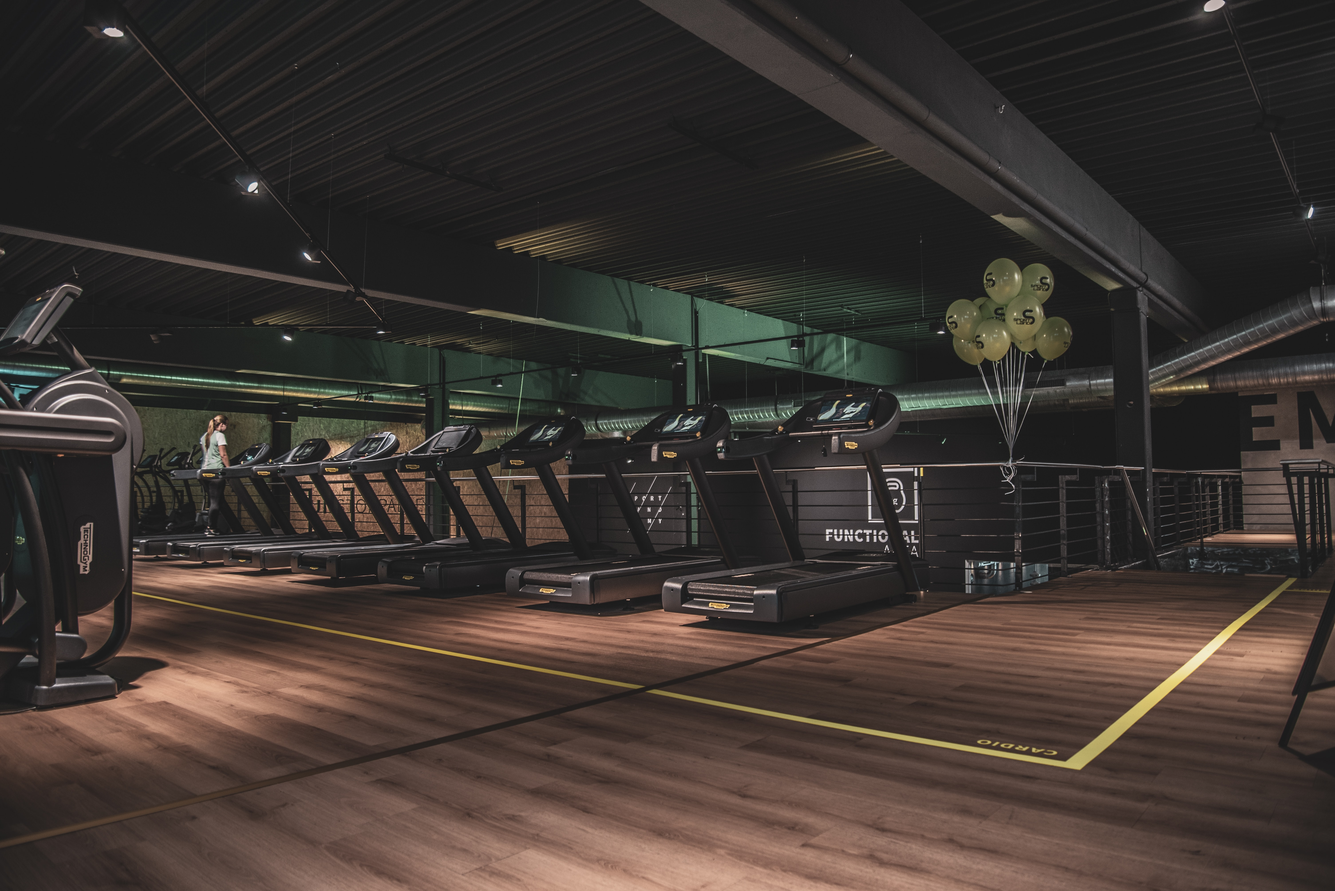
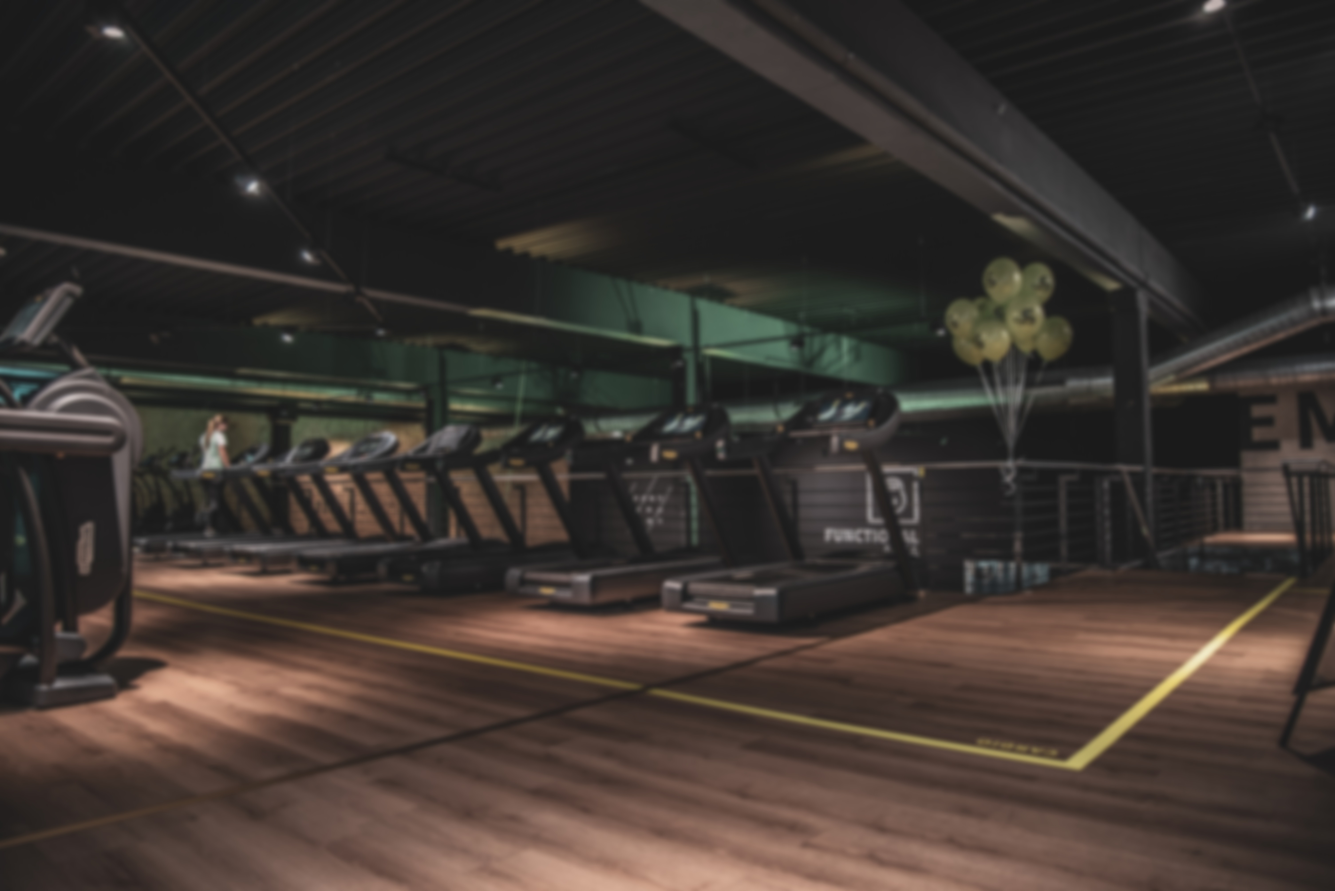
NavBar and LoginForm Updated

diff --git a/src/navbar/navbar.css b/src/navbar/navbar.css
@@ -1,9 +1,17 @@
-/* @import url('https://fonts.googleapis.com/css2?family=Ubuntu&display=swap');
+@import url('https://fonts.googleapis.com/css2?family=Ubuntu&display=swap');
 :root{
-  --dark-font:#091540;
-  --light-font:#F8F7F9;
-  --font-fam:'Ubuntu', sans-serif;;
-} */
+  --dark-font:#151515;
+  --light-font:#FFFFFF;
+  --font-fam:'Ubuntu', sans-serif;
+  --secondary-hover-color:#292929;
+  --purple:#9E55FC;
+  --green:#03DAC6;
+  --grey-card:#1E1E1E;
+  --dark-shadow:  0px 16px 24px 2px hsla(0,0%,0%,0.14), 
+  0px 6px 30px 5px hsla(0,0%,0%,0.12), 
+  0px 8px 10px -5px hsla(0,0%,0%,0.2);
+
+}
 .navbar{
     /* padding-left:100px ; */
     padding-top:30px;
@@ -66,7 +74,12 @@
 .fa-solid{
     color :var(--dark-font);
 }
-
+.navbar-responsive{
+  display: absolute;
+}
+.nav-link{
+  text-align: center;
+}
 
 
 /* Login navbar modal */
@@ -98,47 +111,58 @@
     padding: 2em;
     max-width: 100%;
     color: var(--dark-font);
-    background-color:white;
-    border-radius: 10px;
+    background-color:var(--grey-card);
+    border-radius: 5px;
     @media (max-width: 576px) {
       max-width: 90%;
       margin: 0 auto;
     }
+  }
+  .text-center{
+    color: var(--light-font);
+  }
+  .form-label{
+    color: var(--light-font);
   }
   .form-control {
     background-color: inherit;
     padding-left: 0;
     border:0;
     border-radius: 0;
-    color: var(--dark-font);
-    border-bottom: 2px solid var(--dark-font);
-  }
-  .form-control:focus{
+    color: var(--light-font);
+    border-bottom: 2px solid var(--light-font);
     text-decoration: none;
-    outline: none;
+
+  }
+  .form-control:focus,.form-control:active{
+    outline: none !important;
     border: 0;
-    border-bottom: 2px solid var(--dark-font);
-    box-shadow: inset 0 0px 0 #7e7e7e;
+    color: white;
+    background-color: transparent;
+    border-bottom: 2px solid var(--light-font);
+    /* box-shadow: inset 0 0px 0 #7e7e7e; */
   }
   .myform .btn {
-    width: 100%;
+    width: 50%;
     font-weight: 800;
-    background-color: #fff;
+    background-color: var(--dark-font);
     border-radius: 0;
     padding: 0.5em 0;
+    margin: 0px 27%;
+    position: relative;
+    color: var(--light-font);
   }
-  .myform .btn:hover {
-    background-color: inherit;
-  }
+  /* .myform .btn:hover {
+    background-color: lightgreen;
+  } */
   .login_para {
     text-align: center;
     padding-top: 2em;
-    /* color: var(--dark-font); */
+    color: var(--light-font);
   }
   .login_para a {
-    color: #e1e1e1;
+    color: var(--purple);
     text-decoration: none;
+    transition: .1s ease-in-out;
   }
-  .login_para a:hover {
-    color: var(--dark-font);
-  }
+

diff --git a/src/Getstarted/Start.jsx b/src/Getstarted/Start.jsx
@@ -2,17 +2,18 @@ import './start.css'
 const Start=()=>
 {
     return(<div>
-        <div className="start"></div>
+        <div className="start">
             <div className='start_para'>
-             <h1 className="heading  animate__animated  animate__fadeInLeft"><i><span className="left-quote">“</span>Fitness is a Lifestyle not a Destination<span className="right-quote">”</span></i> 
-             </h1>
-                <p className='mx-auto pt-0'> Goals are meant to be achieved, records are meant to be broken.
-                Be it any goal muscle building,fat loss,weight loss or just maintenence we have the right guidance on how to 
-                achieve and shape your body.</p>
-               <button type="button" className="btn btn-dark start_btn rounded">GET STARTED</button>
+                <h1 className="heading  animate__animated  animate__fadeInLeft"><i><span className="left-quote">“</span>Fitness is a Lifestyle not a Destination<span className="right-quote">”</span></i> 
+                </h1>
+                    <p className='mx-auto pt-0'> Goals are meant to be achieved, records are meant to be broken.
+                    Be it any goal muscle building,fat loss,weight loss or just maintenence we have the right guidance on how to 
+                    achieve and shape your body.</p>
+                <button type="button" className="btn btn-dark start_btn rounded">GET STARTED</button>
+                </div>
             </div>
         
-</div>
+        </div>
     )
 }
 export default Start;

diff --git a/src/navbar/Navbar.jsx b/src/navbar/Navbar.jsx
@@ -33,8 +33,9 @@ class Navbar extends Component {
               <span><i className="fa-solid fa-bars"></i></span>
             </button>
             <div className="collapse navbar-collapse nav-ul" id="navbarNav">
-              <ul className="navbar-nav">
+              <ul className="navbar-nav navbar-responsive">
                 {/* Provide with href links in props */}
+      
                 {this.state.navtext.map((text, index) =>
                   <NavElements text={text} key={index} />
 

diff --git a/src/Getstarted/start.css b/src/Getstarted/start.css
@@ -3,9 +3,7 @@
     background: url('./gym.jpg');
     background-position: center;
     background-size: cover;
-background-attachment: fixed;
-filter: blur(1.5px);
-
+    background-attachment: fixed;
 }
 .heading{
     padding:20px;
@@ -29,10 +27,10 @@ filter: blur(1.5px);
     color:white;
     font-size:1.1em;
     font-weight: 600;
-    position: absolute;
+    position: relative;
     width: 100%;
     text-align: center;
-  top: 11em;
+  top: 3em;
 
   }
   .start_para p{

diff --git a/src/navbar/NavElements.jsx b/src/navbar/NavElements.jsx
@@ -2,8 +2,8 @@
 const NavElements=(props)=>{
     return(
         <li className="nav-item">
-        <a className="nav-link "  href="#">{props.text}</a>
-      </li>
+        <a className="nav-link" href="#">{props.text}</a>
+       </li>
     )
 }
 
